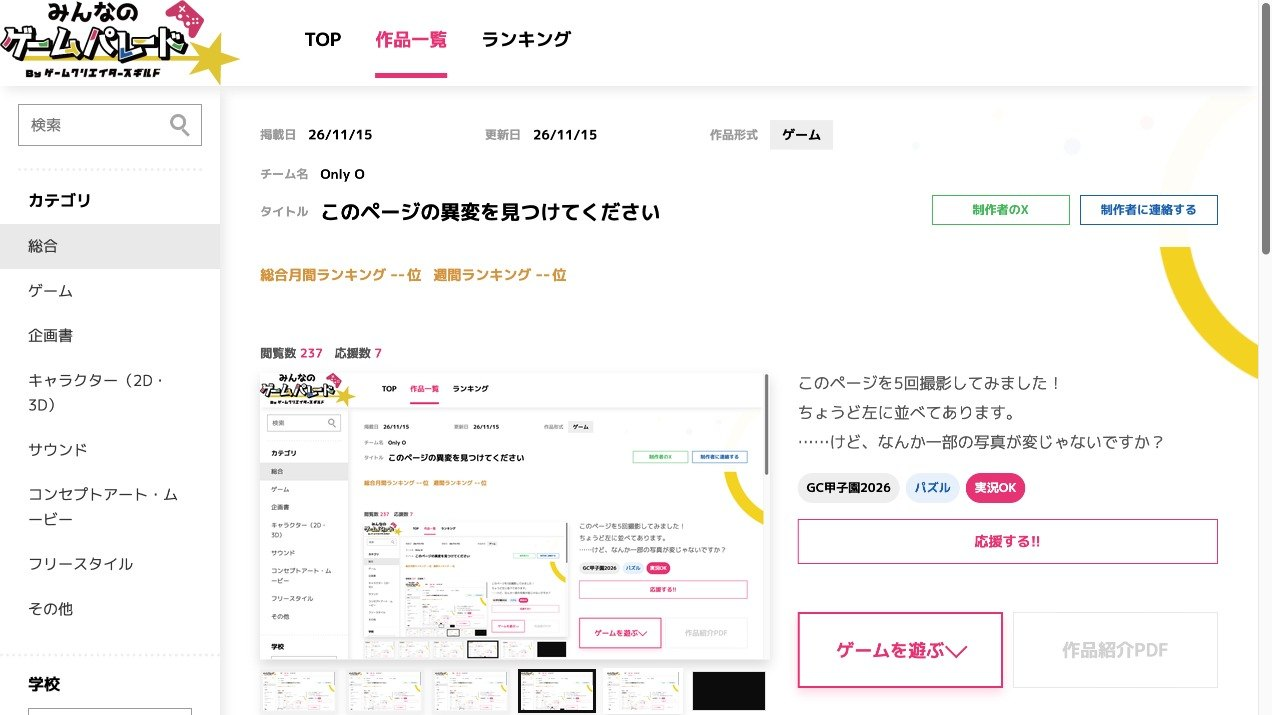
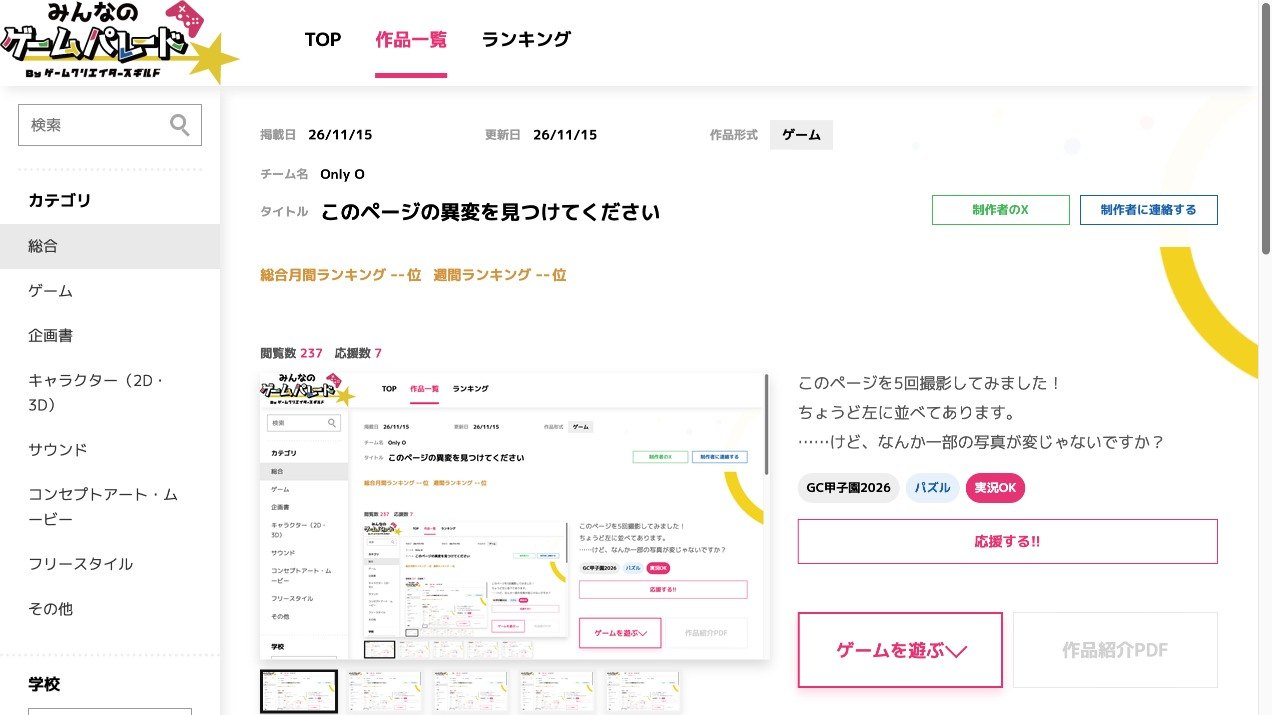
5枚とも同じ画面から異変が起きる形に変更

diff --git a/index.html b/index.html
@@ -158,10 +158,10 @@
 
   const ITEMS = [
     { anomaly: true,  text: "しばらく見ていると、画像の中のページが回転しながら奥へ沈んでいきます。" },
-    { anomaly: false, text: "異変はありません。1枚目を見たあとで、これもいつか動くのではと疑った人も多いはずです。" },
+    { anomaly: false, text: "異変はありません。どれだけ待っても、何も起きません。" },
     { anomaly: true,  text: "ときどき、右の黄色い弧と背景の点が目に変わり、こちらを見てまばたきします。" },
-    { anomaly: true,  text: "サムネイルが6枚あります。このサイトには、画像を5枚までしか載せられません。" },
-    { anomaly: true,  text: "5枚目の写真なのに、写真の中のページでは3枚目のサムネイルが選ばれています。ほかの写真では、どれも自分の番号が選ばれています。" },
+    { anomaly: true,  text: "しばらくすると、サムネイルが6枚に増えます。このサイトには、画像を5枚までしか載せられません。" },
+    { anomaly: true,  text: "しばらくすると、写真の中で選ばれているサムネイルが、ひとりでに1枚目から3枚目へ移ります。誰も押していないのに。" },
   ];
   const MESSAGES = {
     5: "すべて見抜きました。このページは、あなたのことを覚えました。",
